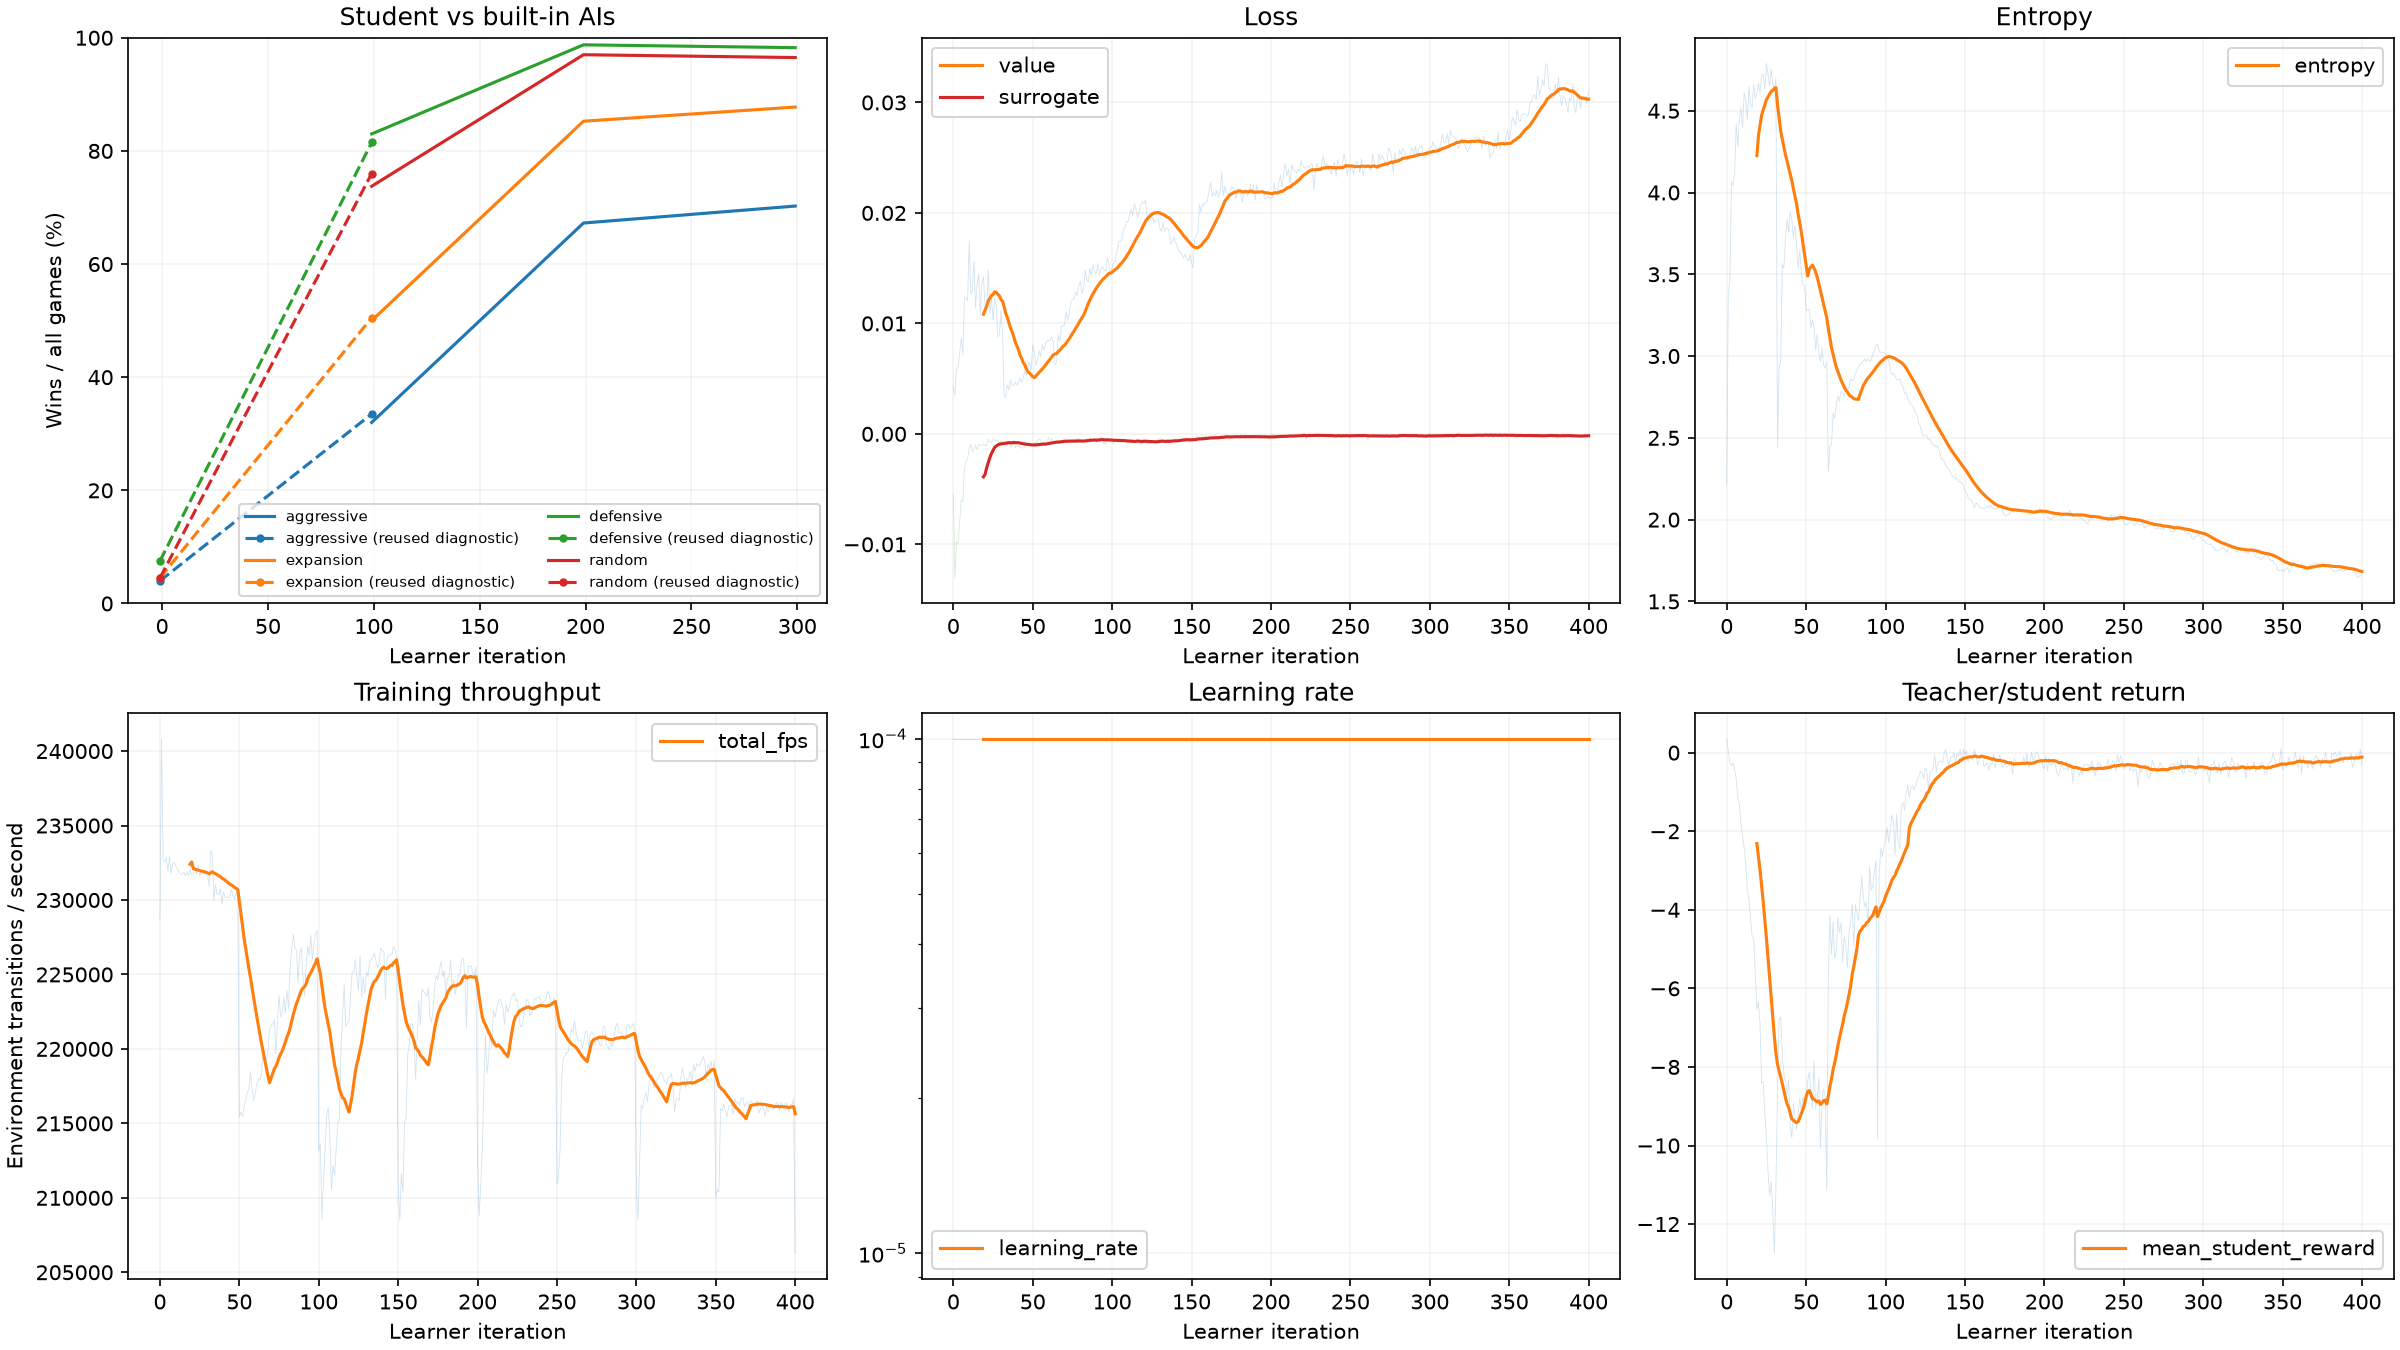
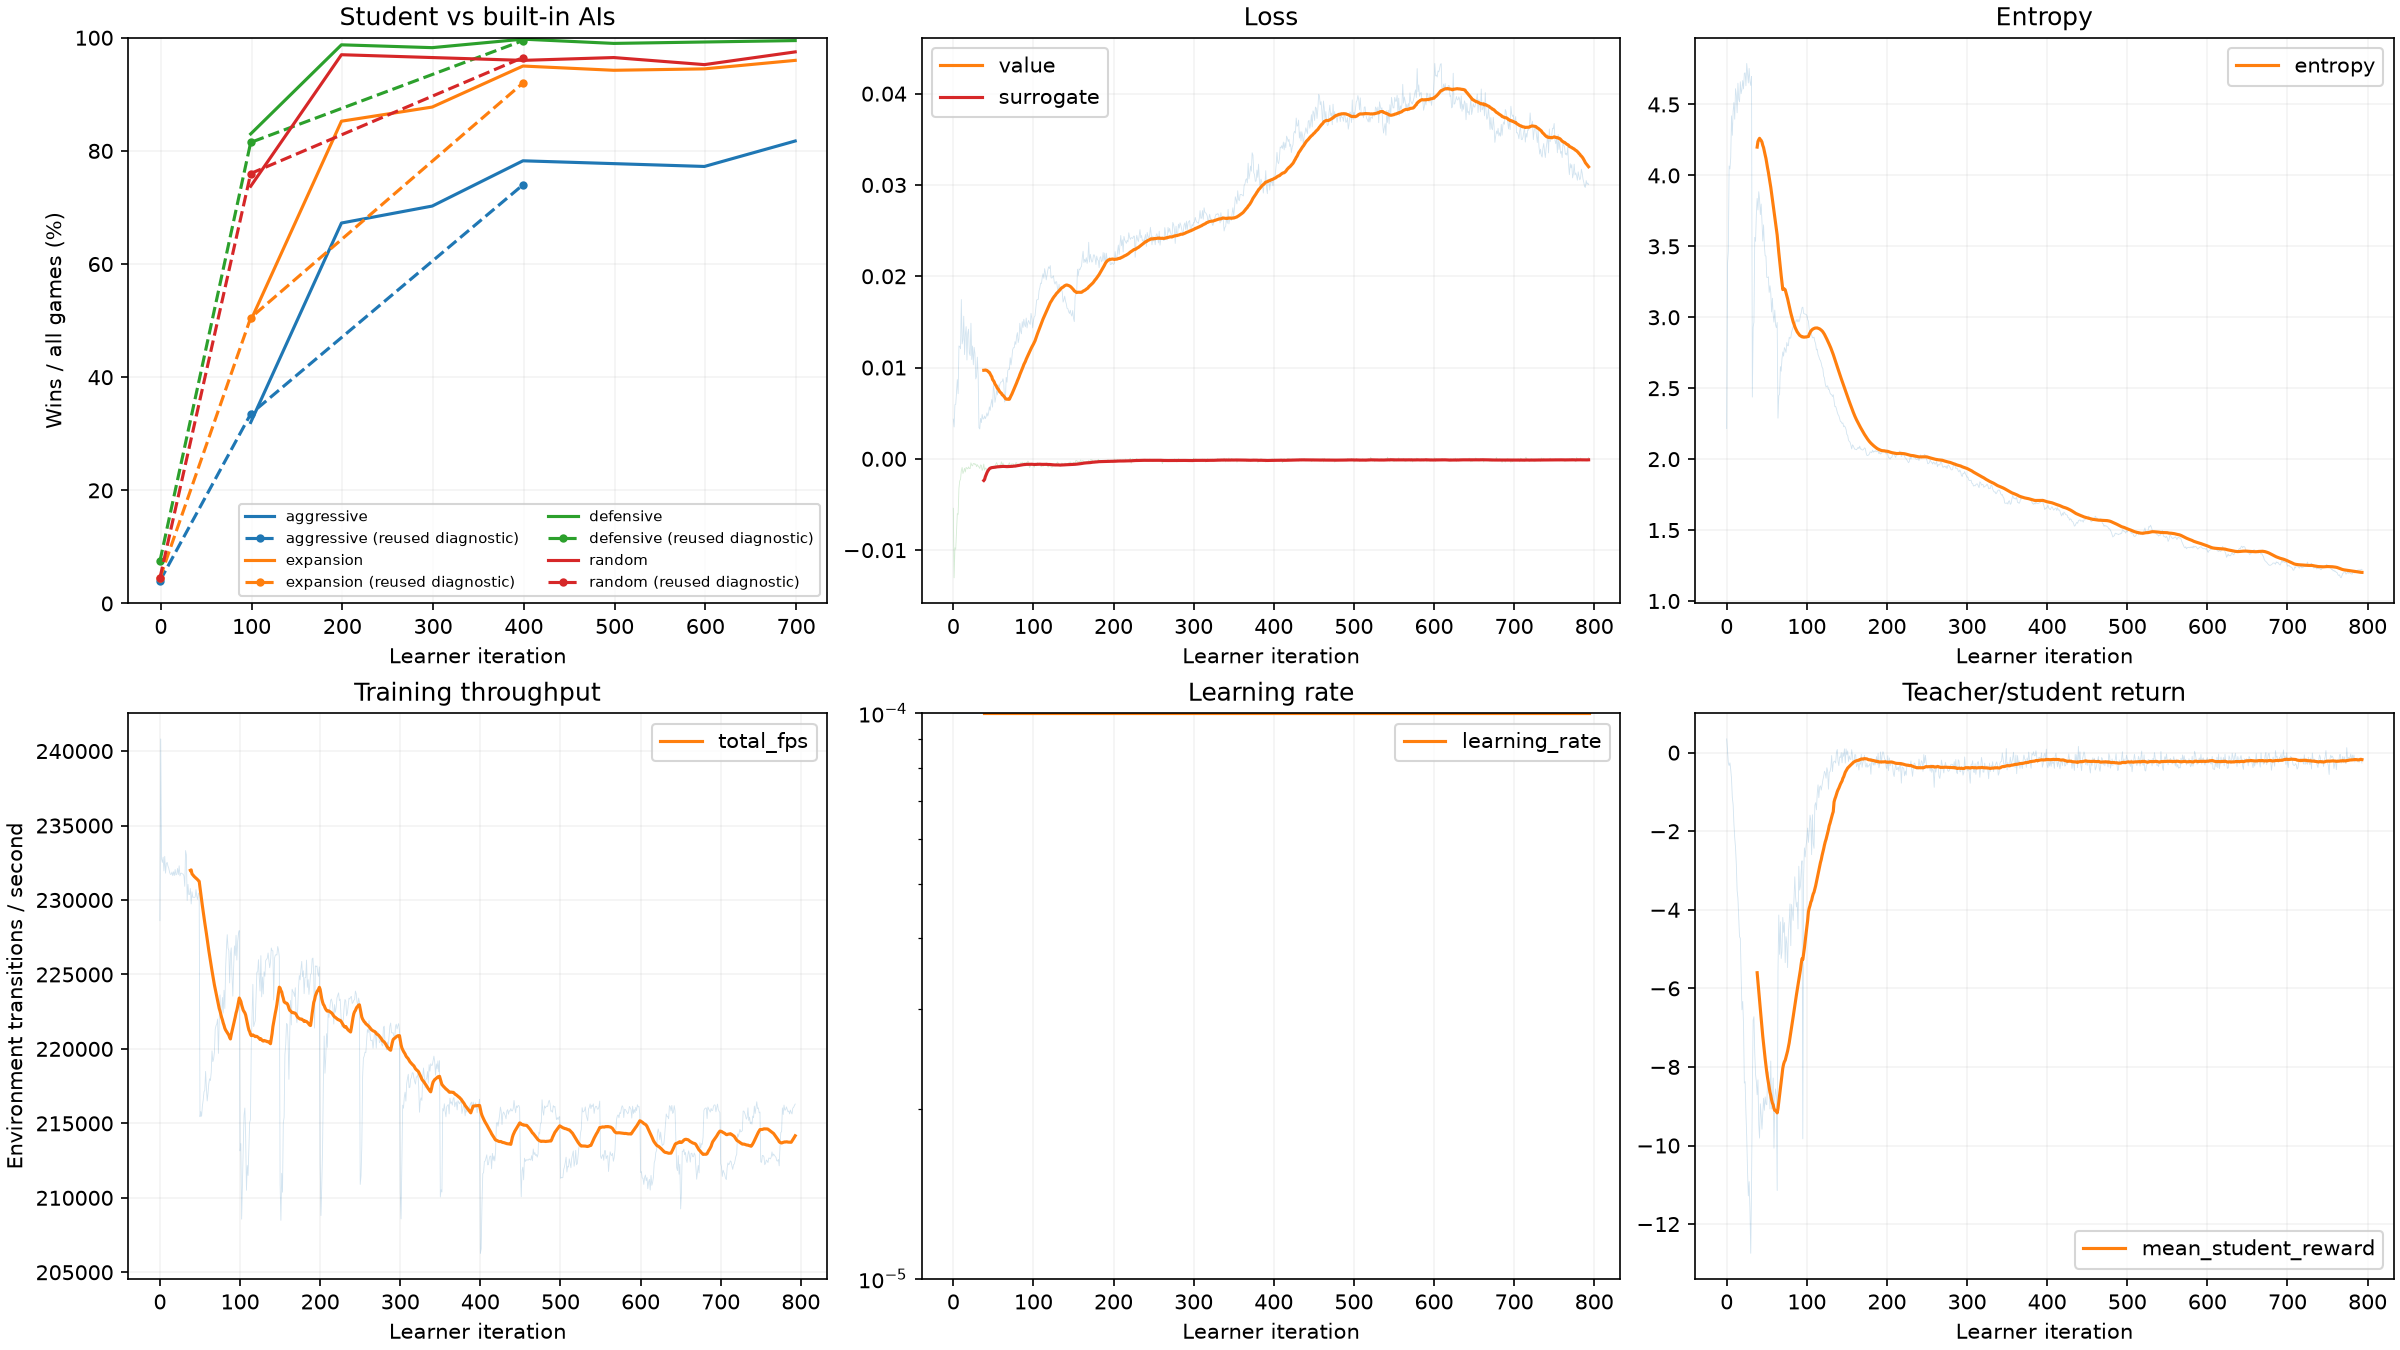
docs(rl): record v16 middle failures and measured E2 throughput

diff --git a/doc/rl_train_log.md b/doc/rl_train_log.md
@@ -794,4 +794,21 @@ v15最终交付独立核对 `outputs/rl_iteration_audit/pure_scratch_phase/v15_f
 
 截至333的最近50次更新compute均值218,269/s，采样1.173秒/更新1.229秒，损失有限；历史池有random0和六个已发布训练模型，尚非完整成熟8池。下一中期诊断在完成499选模后冻结当时最佳，保留最终模型的第四名额。
 
-![v16中期：前三个实际选模点及本轮新初始/99开发诊断，训练尚未结束](rl_train_figures/v16.png)
+截至699的后续选模点如下，499/599未超过399，699再次上升成为新最佳；未达到目标，继续正常从零训练预算。
+
+| 更新 | aggressive | expansion | defensive | random |
+| ---: | ---: | ---: | ---: | ---: |
+| 399 | 78.25% | 95% | 99.75% | 96% |
+| 499 | 77.75% | 94.25% | 99% | 96.5% |
+| 599 | 77.25% | 94.5% | 99.25% | 95.25% |
+| 699 | 81.75% | 96% | 99.5% | 97.5% |
+
[1 lines of base64/hex data omitted]
+
[1 lines of base64/hex data omitted]
+
+四个败局开局WAIT12/10/11/12tick；A/E兵力不足，D/R终局前总兵地领先仍守将失败。Agg224敌距3时仍将军2兵派1留1；Exp191敵距2、将军11兵经增长派11留1，后来4守兵被5兵攻下；Def158–165邻将46格36–38敌兵持续可见，仍远处行动，166被18兵击败13守兵；Rand231邻接敌11兵可见，仍远处41→42，增长后的7守兵被10兵攻下。Expansion敌将66–197连续可见132tick，不能泛称失败皆因遗忘；Random曾在29–225期间看到敌将44tick，A/D未见。记忆关闭，静态世界帧尚未证明实际actor历史或概率，也不证明下一设计能修复这些失误。
+
[1 lines of base64/hex data omitted]
+
+![v16中期：七个实际选模点及本轮新初始/99/399开发诊断，699为当前最佳，训练尚未结束](rl_train_figures/v16.png)
